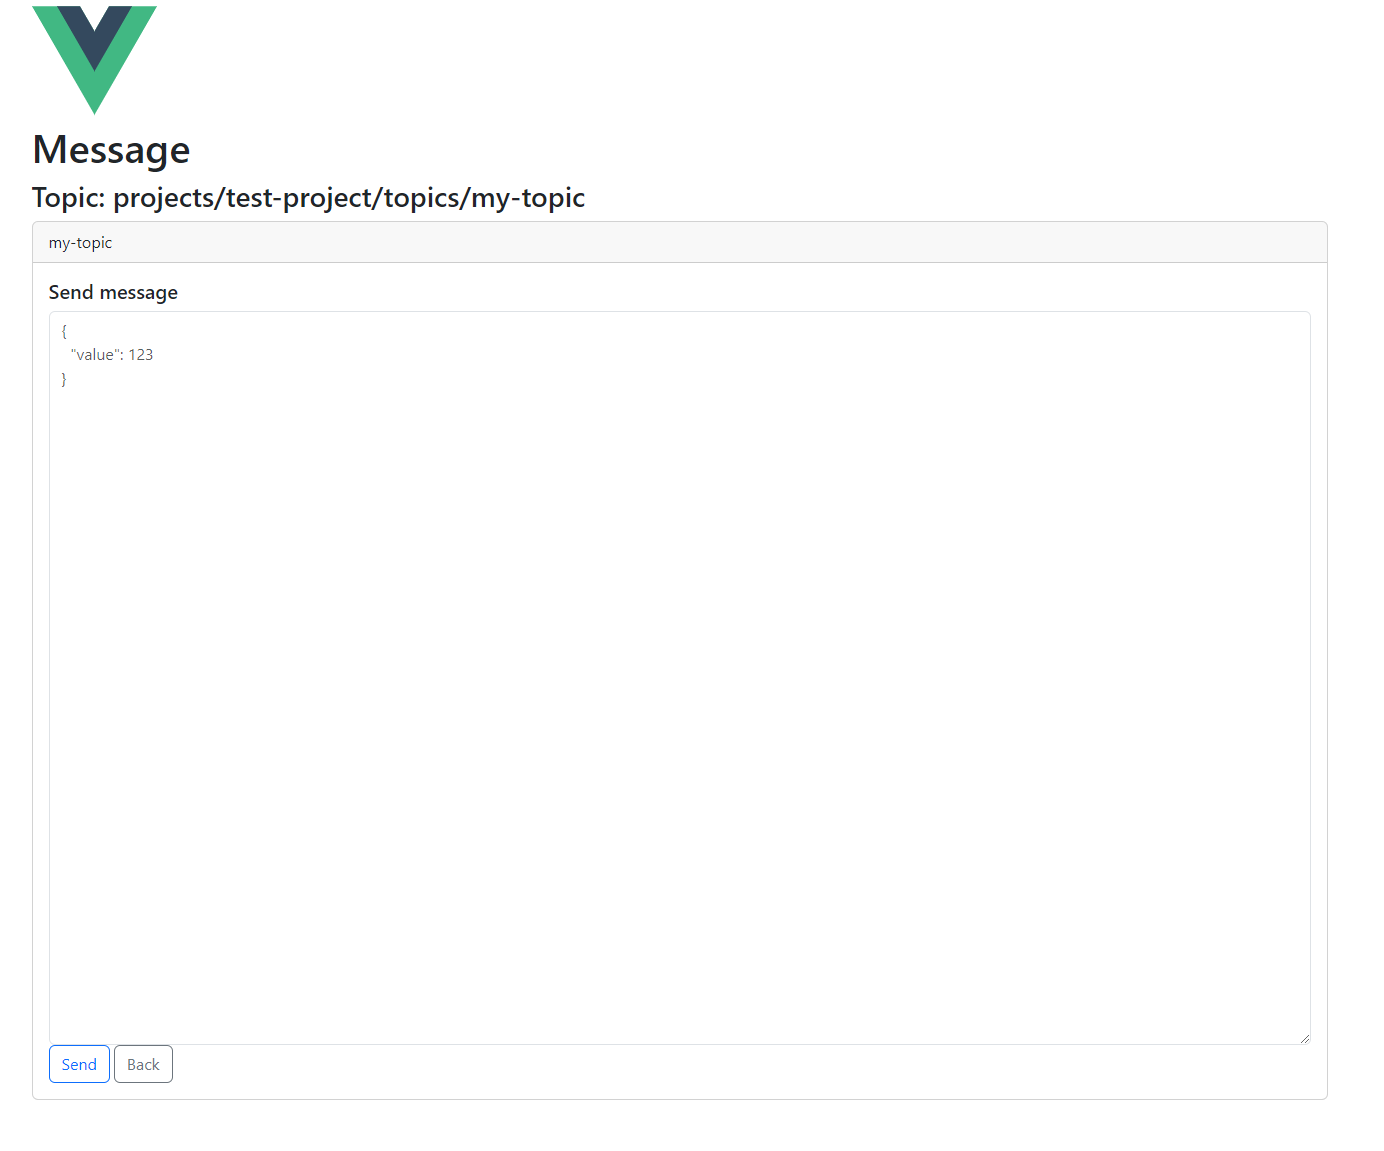
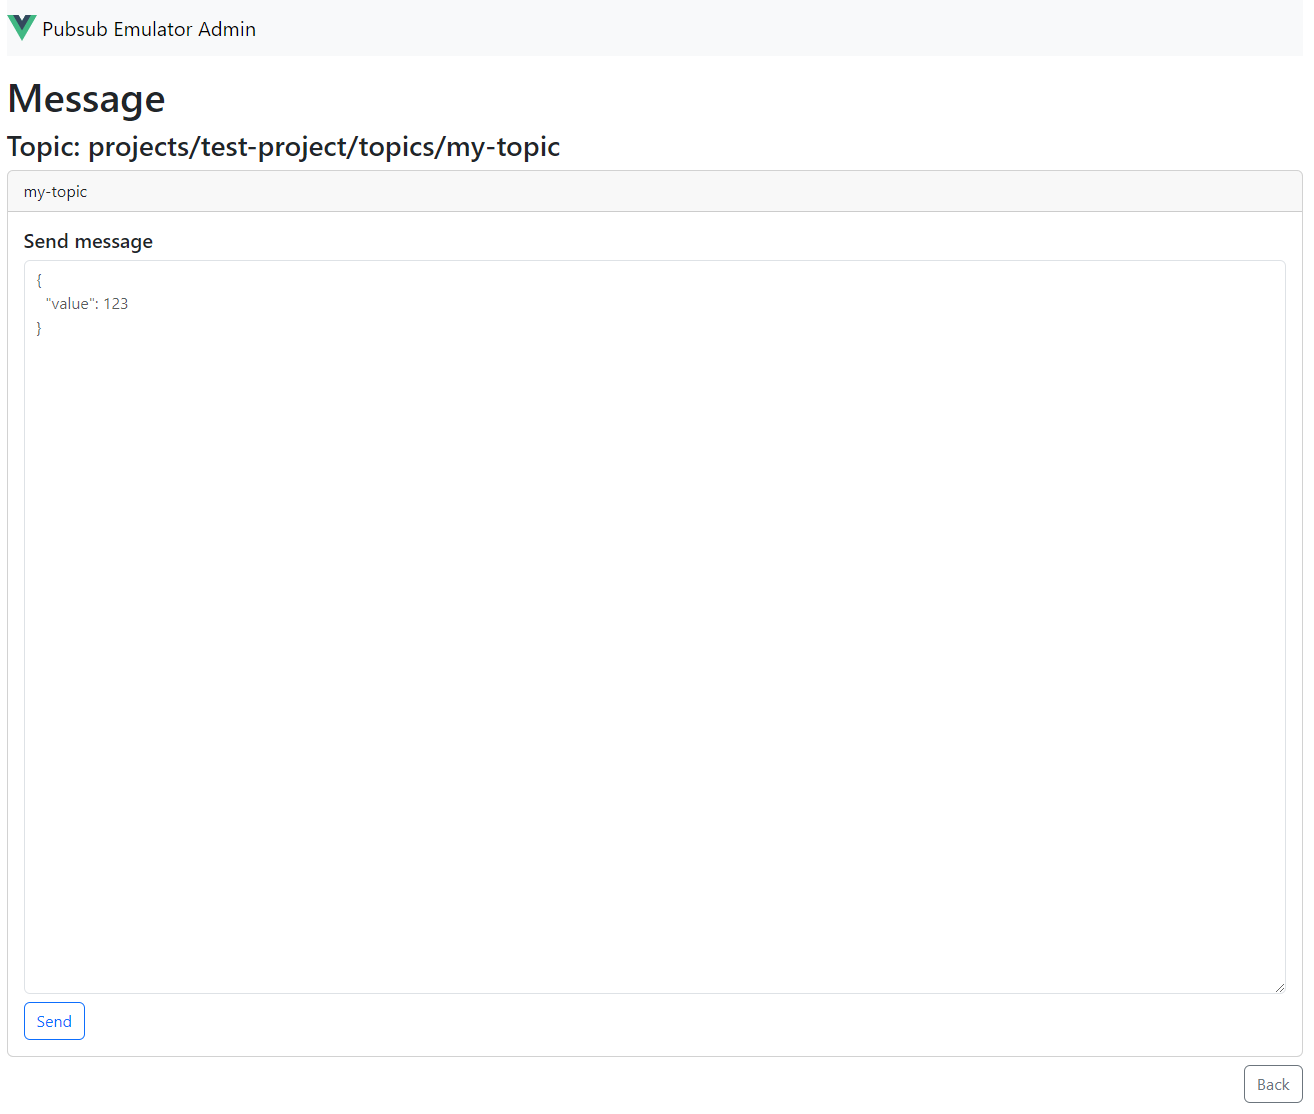
Update image

diff --git a/README.md b/README.md
@@ -1,4 +1,4 @@
-# pubsub-emulator-admin
+# Pubsub Emulator Admin
 
 ## Build:
 ```sh
